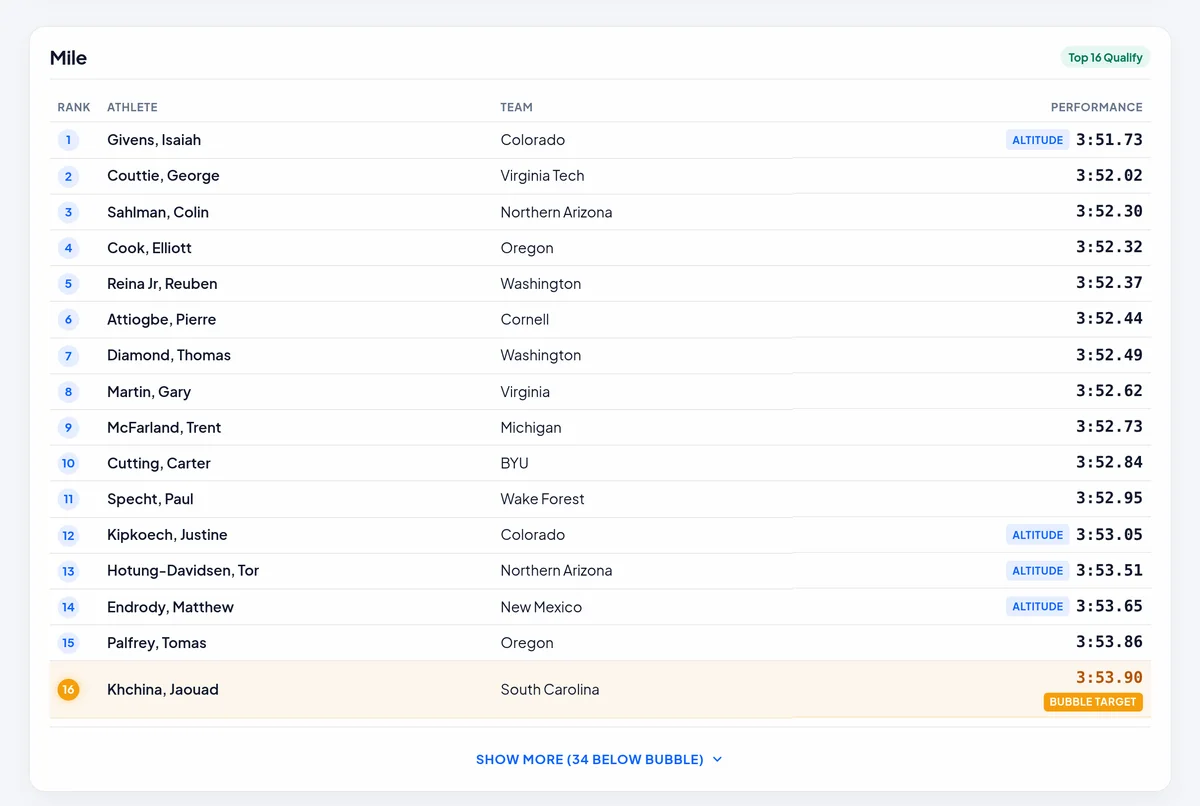
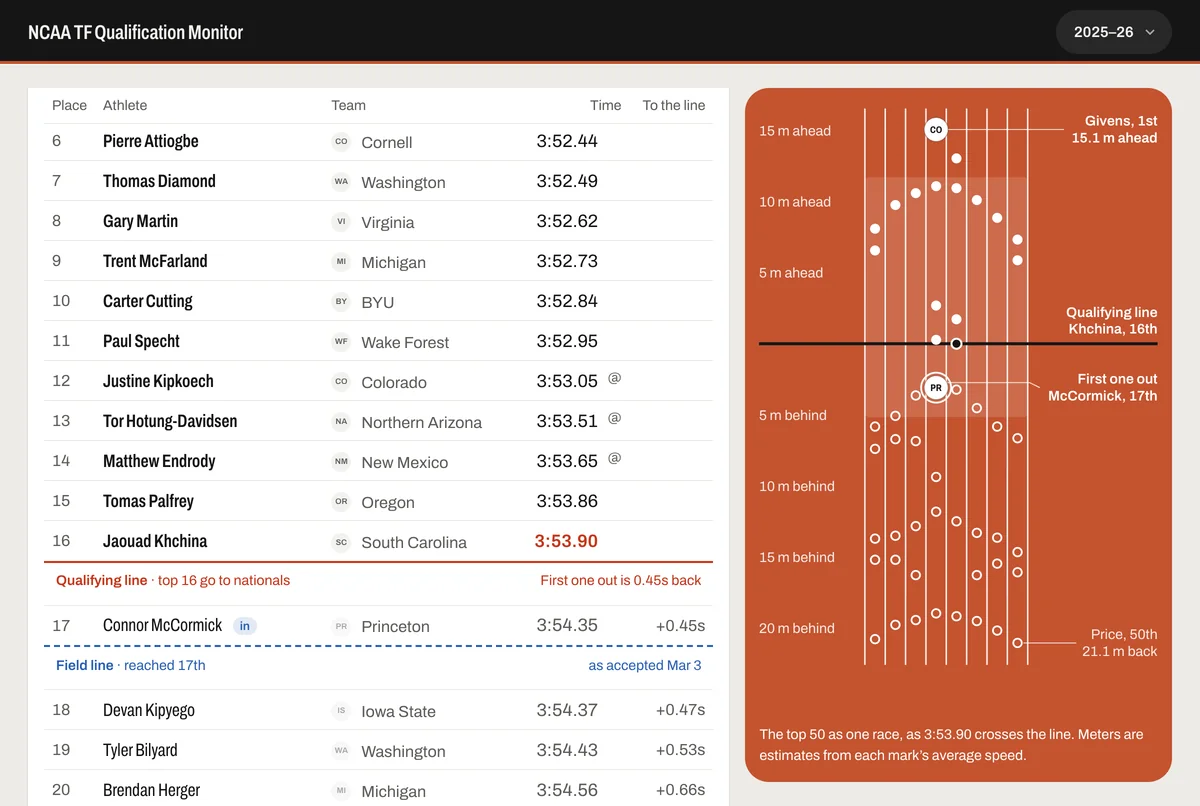
NCAA TF Qualification Monitor: October 2026 update with new screenshots

diff --git a/website/src/data/projects.ts b/website/src/data/projects.ts
@@ -289,7 +289,7 @@ export const projects: Project[] = [
     stack: ["Python", "Pandas", "JavaScript"],
     image: "/images/tfrrs.webp",
     imageAlt:
-      "NCAA TF Qualification Monitor showing the NCAA Division I men’s indoor qualifying marks, with the 16th-place bubble time for each event from the 60 meters to the distance medley relay.",
+      "NCAA TF Qualification Monitor showing the men’s indoor mile for 2025–26: the 3:53.90 qualifying mark held by 16th place, the field reaching 17th, and the top 50 drawn as one race.",
     markdown: "/projects/tfrrs-monitor.md",
     links: [
       {

diff --git a/website/public/projects/tfrrs-monitor.md b/website/public/projects/tfrrs-monitor.md
@@ -10,6 +10,28 @@ This tracker scrapes the lists from TFRRS (the Track & Field Results Reporting S
 
 ---
 
+## October 2026 update
+
+The qualifying line shows who should make the meet. It doesn't show who actually got in: some athletes scratch or never declare, so the field fills from further down the list. Three additions:
+
+- **Field line.** Indoor event pages and the outdoor First Round pages now show a second, dashed line where the field reached, taken from the NCAA's accepted entry lists published on declaration day. It goes back to 2015, with older seasons in the past years view. The decathlon and heptathlon don't get one, since they're picked from the national list, and a few events have no line because an accepted athlete isn't on the TFRRS list.
+- **Deeper outdoor lists.** The East and West lists now go 100 deep in every event.
+- **Regionals to nationals.** A new page follows everyone who advanced from the East and West First Rounds in each event and shows how they finished at nationals, for 2018, 2019 and 2021 to 2026 (there was no 2020 meet).
+
+![Women's 200m indoor list for 2025–26: the qualifying line after 16th, 12th place tagged not in field, 17th and 18th tagged in, and a dashed field line after 18th, as accepted March 3](/projects/tfrrs-field-line.webp)
+
+*Women's 200m, indoors in 2025–26: the qualifying line is at 16th, but the field as accepted on March 3 reached 18th.*
+
+![Women's 100m East First Round list for 2026: the qualifying line after 48th, most athletes from 49th to 56th tagged in, and the field line after 56th, with the top 68 drawn as one race beside it](/projects/tfrrs-outdoor-100.webp)
+
+*Women's 100m, East First Round in 2026: the line is at 48th and the field reached 56th.*
+
+![Women's 100m at the 2026 NCAA Outdoor Championships: the qualifiers in finishing order, each with an East or West chip, their First Round place and mark, and their time and wind in the final](/projects/tfrrs-nationals.webp)
+
+*Women's 100m at the 2026 nationals: 12 qualifiers came from each First Round, and 7 of the top 8 came from the East.*
+
+---
+
 ## Tech Stack & Architecture
 
 **Frontend:** React, CSS
@@ -23,11 +45,11 @@ This tracker scrapes the lists from TFRRS (the Track & Field Results Reporting S
 ## Key Features
 
 ### Who's in and who's on the bubble
-Each event lists the current qualifiers and marks the athlete sitting on the cutoff (16th indoors, 48th outdoors) as the **Bubble Target**.
+Each event lists the current qualifiers and draws the **qualifying line** under the athlete sitting on the cutoff (16th indoors, 48th outdoors).
 
-![NCAA TF Qualification Monitor men's indoor mile table showing the top 16 qualifiers, altitude tags, and the 16th-place Bubble Target row](/projects/tfrrs-mile-table.webp)
+![NCAA TF Qualification Monitor men's indoor mile list for 2025–26: altitude-tagged marks, the qualifying line after 16th place at 3:53.90, the field line after 17th, and the top 50 drawn as one race beside the table](/projects/tfrrs-mile-table.webp)
 
-*Each event lists the current top 16, flags altitude-converted marks, and highlights the athlete sitting on the bubble.*
+*Each event lists the qualifiers, flags altitude-converted marks, and draws the qualifying line under the athlete on the bubble.*
 
 ### Altitude marks
 Marks converted for altitude (shown with `@` on TFRRS) are tagged, with a short explanation of the NCAA rule and a link to TFRRS's conversion calculator.

diff --git a/website/public/images/SOURCES.md b/website/public/images/SOURCES.md
@@ -11,7 +11,7 @@ Both photographs were resized to 960px wide and converted to WebP. These retaine
 
 Product screenshots and the personal photographs/video predate this artwork update. The route, envelope, browser frames, and track lines are original HTML/CSS/SVG artwork.
 
-`tfrrs.webp` (and `../projects/tfrrs-mile-table.webp`) are screenshots of the live NCAA TF Qualification Monitor (`pierceseigne.com/ncaa-indoor-qualification/`), captured October 18, 2026 and converted to WebP.
+`tfrrs.webp` (and `../projects/tfrrs-mile-table.webp`, `../projects/tfrrs-field-line.webp`, `../projects/tfrrs-outdoor-100.webp`, `../projects/tfrrs-nationals.webp`) are screenshots of the NCAA TF Qualification Monitor (`pierceseigne.com/ncaa-indoor-qualification/`) in its October 2026 version with the field line, deeper outdoor lists and nationals view, captured October 24, 2026 in light mode at 1200px wide and converted to WebP. They replace the October 18, 2026 captures of the earlier design.
 
 `syllabus.webp` (and `../projects/syllabus-calendar.webp`, `../projects/syllabus-grading.webp`) are screenshots of the live Syllabus Analyzer's built-in CS571 demo, captured October 7, 2026. `time.webp` is a screenshot of the live Time Progress Visualizer's Year view, captured the same day; it replaces an earlier generated mockup.
 
